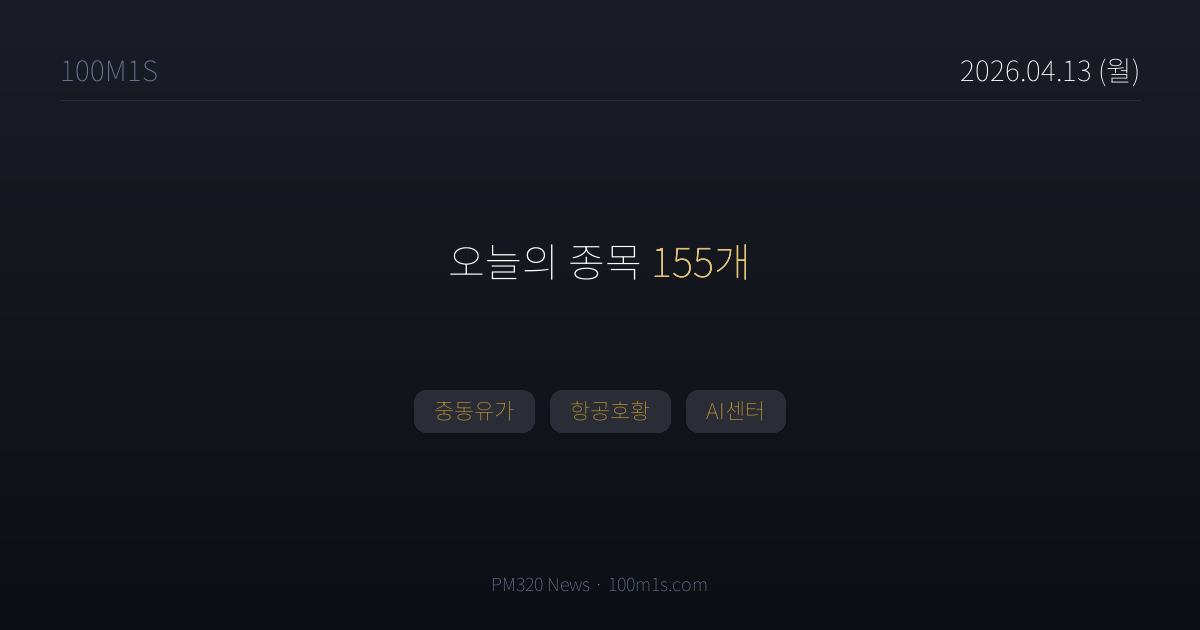
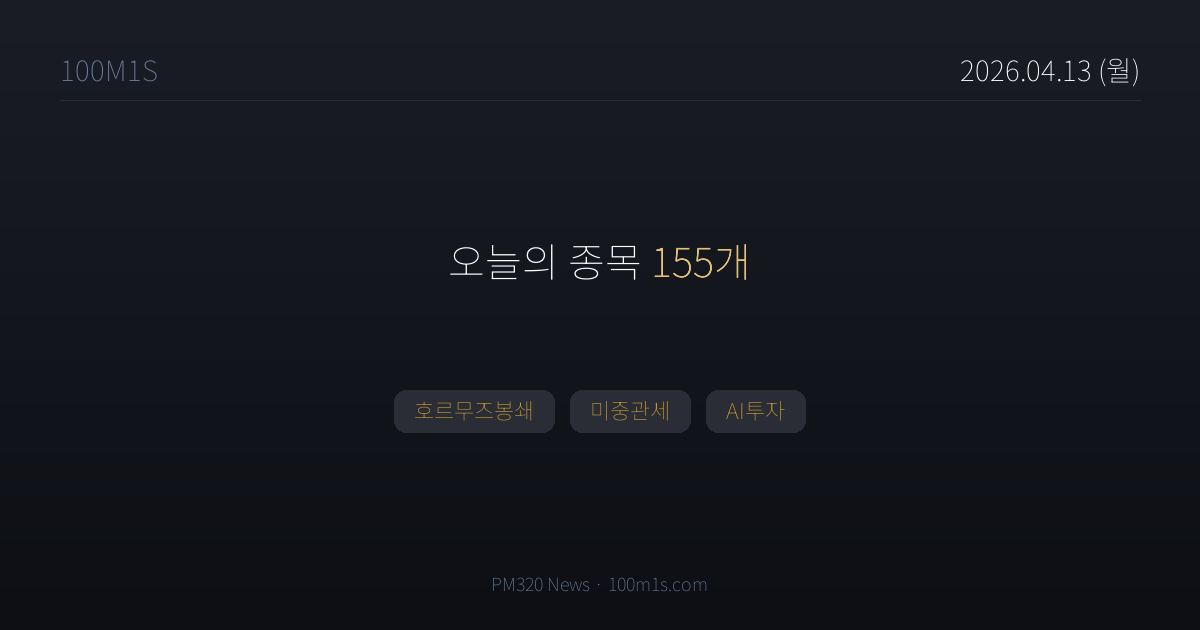
chore(news): 2026-04-13T19:17 pipeline

Changed region(s): [[0.3083, 0.6032, 0.6783, 0.6937]]

diff --git a/news/2026-04-13.html b/news/2026-04-13.html
@@ -4,7 +4,7 @@
 <meta charset="UTF-8">
 <title>4월 13일 (월) 뉴스 — 100M1S</title>
 <meta property="og:title" content="4월 13일 (월) · 종목 155개">
-<meta property="og:description" content="중동유가, 항공호황, AI센터">
+<meta property="og:description" content="호르무즈봉쇄, 미중관세, AI투자">
 <meta property="og:image" content="https://100m1s.com/og/2026-04-13.png">
 <meta property="og:image:width" content="1200">
 <meta property="og:image:height" content="630">
